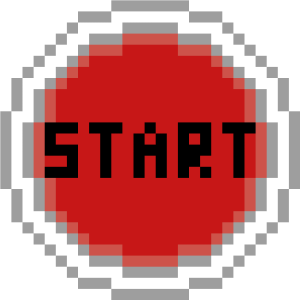
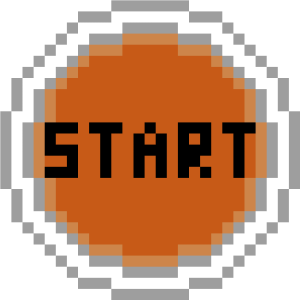
added score and life and resseting world also added button aniamtions

diff --git a/JavaTyperSource/Game.java b/JavaTyperSource/Game.java
@@ -23,9 +23,14 @@ public class Game extends Actor
     private int possibleWordIndex = 0;
     private GunGun mainGun = new GunGun();
     private int astSpawnCounter = 0;
-    
+    private int score = 0;
+    private int life = 3;
+    private text scoreText;
+    private text lifeText;
     public Game() {
         Collections.shuffle(possibleWords);
+        scoreText = new text("Score: " + score);
+        lifeText = new text("Life: " + life);
     }
     
     
@@ -34,7 +39,8 @@ public class Game extends Actor
     }
     
     public void act() {
-        
+        scoreText.setText("Score: " + score);
+        lifeText.setText("Life: " + life);
         if(astSpawnCounter > 400) {       
             addAst(possibleWords.get(possibleWordIndex));
             ki.addWord(possibleWords.get(possibleWordIndex));
@@ -48,7 +54,9 @@ public class Game extends Actor
             }
         }
         astSpawnCounter = astSpawnCounter + randomNumbers(1, 5);     
-            
+        if(life == 0){
+            Greenfoot.setWorld(new Title(score));
+        }
     }
     
     public Asteroid getAstByWord(String s) {
@@ -73,11 +81,15 @@ public class Game extends Actor
     public void addedToWorld(World world) {        
         world.addObject(ki, 0, 0);
         world.addObject(mainGun, 0, 0);
+        world.addObject(scoreText, 90, 20);
+        world.addObject(lifeText, 70, 70);
+        
     }
     
     public void textCorrect(String s) {
         Asteroid deleteAst = getAstByWord(s);        
         if(deleteAst != null) {
+            score++;
             ki.removeWord(deleteAst.word);
             mainGun.destroyAsteroid(deleteAst);
             deleteAst.laserTarget = true;
@@ -103,7 +115,7 @@ public class Game extends Actor
     public void astReachedBottom(Asteroid bottomAst) {
         ki.removeWord(bottomAst.word);
         astArray.remove(bottomAst);
-        
+        life--;
     }
     
 }

diff --git a/JavaTyperSource/text.java b/JavaTyperSource/text.java
@@ -1,0 +1,30 @@
+import greenfoot.*;  // (World, Actor, GreenfootImage, Greenfoot and MouseInfo)
+
+/**
+ * Write a description of class text here.
+ * 
+ * @author (your name) 
+ * @version (a version number or a date)
+ */
+public class text extends Actor
+{
+    /**
+     * Act - do whatever the text wants to do. This method is called whenever
+     * the 'Act' or 'Run' button gets pressed in the environment.
+     */
+    public text(String textToDisplay){
+    
+        GreenfootImage scoreImage = new GreenfootImage(textToDisplay, 50, Color.WHITE, Color.BLACK, Color.WHITE);
+        setImage(scoreImage);
+    }
+    public void act() 
+    {
+        // Add your action code here.
+    }    
+    public void setText(String textToDisplay){
+    
+        GreenfootImage scoreImage = new GreenfootImage(textToDisplay, 50, Color.WHITE, Color.BLACK, Color.WHITE);
+        setImage(scoreImage);
+    
+    }
+}

diff --git a/JavaTyperSource/Button.java b/JavaTyperSource/Button.java
@@ -40,13 +40,14 @@ public class Button extends Actor
         }*/
 
         if (Greenfoot.mouseClicked(this)) {
-            Greenfoot.delay(3);
             Greenfoot.setWorld(new MyWorld());
         }
         if (Greenfoot.mouseMoved(this))
-            setImage("start1.png");
+            setImage("start2.png");
             //image.scale(image.getWidth() - 200, image.getHeight() - 200);
         if (Greenfoot.mouseMoved(null) && !Greenfoot.mouseMoved(this))
             setImage("start.png");
+        if (Greenfoot.mousePressed(this))
+            setImage("start1.png");
     }    
 }

diff --git a/JavaTyperSource/Title.java b/JavaTyperSource/Title.java
@@ -19,6 +19,14 @@ public class Title extends World
         super(1200, 800, 1); 
         prepare();
     }
+    public Title(int score)
+    {    
+        // Create a new world with 600x400 cells with a cell size of 1x1 pixels.
+        super(1200, 800, 1); 
+        prepare();
+        
+        addObject(new text("Score: " + score), 600, 750);
+    }
     
     private void prepare() {
         Start start = new Start();
